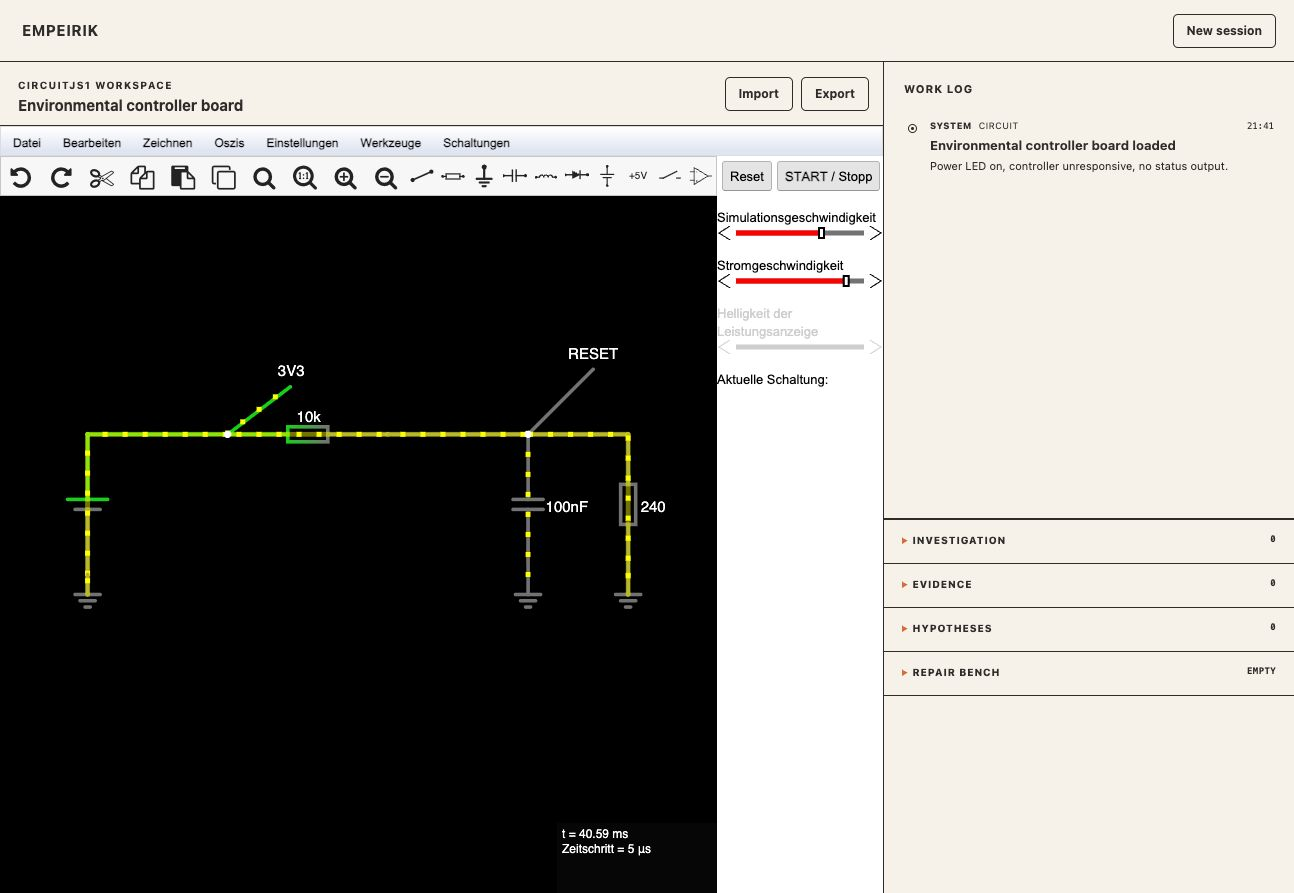
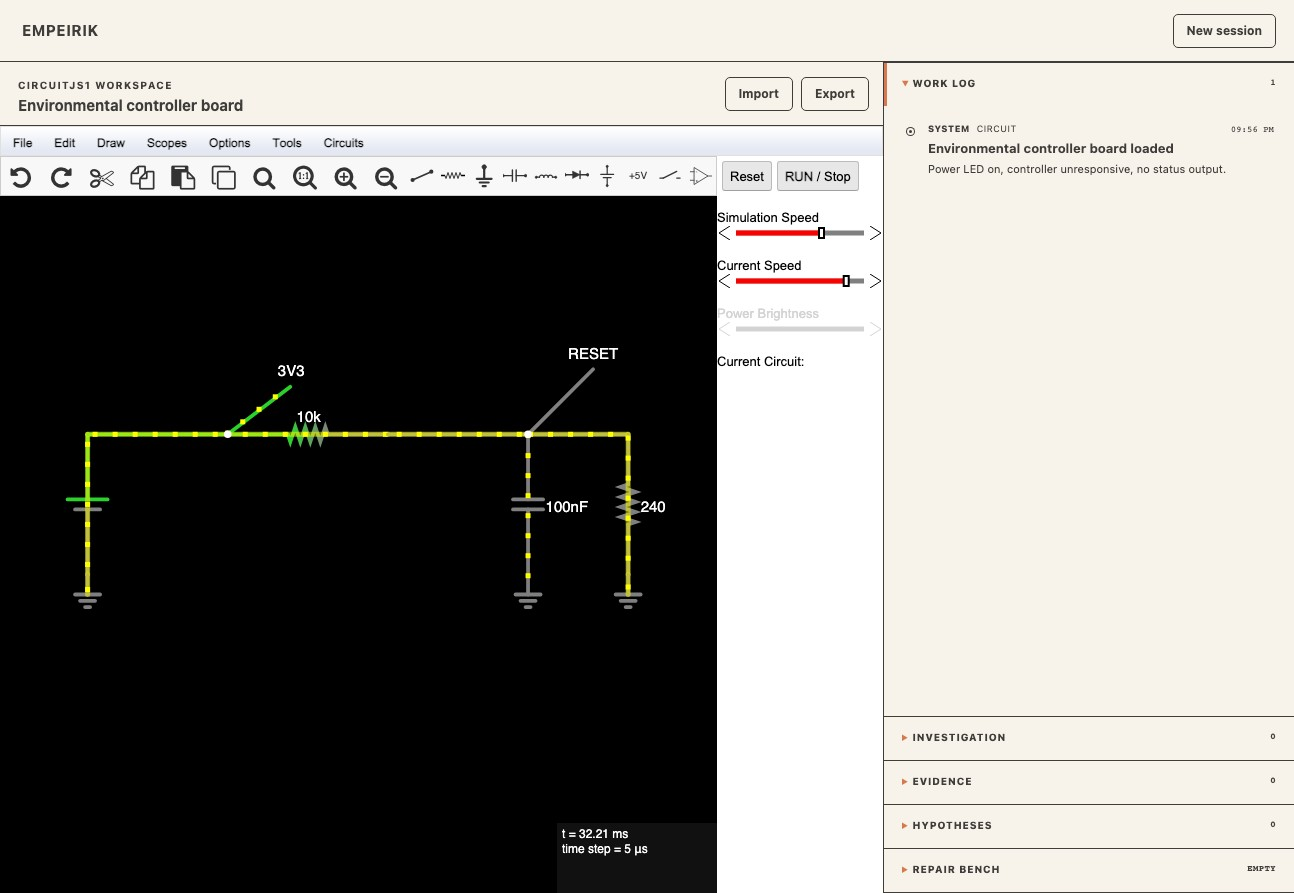
refactor: make work log part of accordion

diff --git a/src/styles.css b/src/styles.css
@@ -311,11 +311,10 @@ button:focus-visible {
 .session-body {
   min-height: 0;
   display: grid;
-  grid-template-rows: auto minmax(190px, 1.1fr) minmax(210px, 0.9fr);
+  grid-template-rows: auto minmax(0, 1fr);
   grid-template-areas:
     "pending"
-    "activity"
-    "benches";
+    "panels";
   overflow: hidden;
 }
 
@@ -323,16 +322,7 @@ button:focus-visible {
   grid-area: pending;
 }
 
-.activity-section {
-  grid-area: activity;
-}
-
-.bench-section {
-  grid-area: benches;
-}
-
-.pending-section,
-.activity-section {
+.pending-section {
   padding: 20px;
   border-bottom: 1px solid var(--border);
 }
@@ -394,17 +384,12 @@ button:focus-visible {
   gap: 8px;
 }
 
-.activity-section {
+.panel-stack {
+  grid-area: panels;
   min-height: 0;
-  display: grid;
-  grid-template-rows: auto minmax(0, 1fr);
-  padding: 20px 12px 0 20px;
+  display: flex;
+  flex-direction: column;
   overflow: hidden;
-}
-
-.bench-section {
-  min-height: 0;
-  overflow-y: auto;
   overscroll-behavior: contain;
   border-top: 1px solid var(--charcoal);
   background: var(--cream);
@@ -412,7 +397,16 @@ button:focus-visible {
 }
 
 .bench {
+  flex: 0 0 auto;
+  min-height: 0;
   border-bottom: 1px solid var(--charcoal);
+}
+
+.bench[open] {
+  flex: 1 1 auto;
+  display: grid;
+  grid-template-rows: auto minmax(0, 1fr);
+  overflow: hidden;
 }
 
 .bench summary {
@@ -444,7 +438,7 @@ button:focus-visible {
 }
 
 .bench-content {
-  max-height: 200px;
+  min-height: 0;
   padding: 0 18px 12px 35px;
   overflow-y: auto;
   scrollbar-color: var(--charcoal) transparent;
@@ -501,8 +495,8 @@ button:focus-visible {
 
 .session-feed {
   min-height: 0;
-  margin-top: 8px;
-  padding: 14px 8px 18px 0;
+  margin: 0;
+  padding: 14px 20px 18px 18px;
   overflow-y: auto;
   overscroll-behavior: contain;
   scrollbar-color: var(--border-strong) transparent;

diff --git a/index.html b/index.html
@@ -98,14 +98,15 @@ npm start</code></pre>
           <div id="pending-actions"></div>
         </section>
 
-        <section class="activity-section" aria-labelledby="activity-title">
-          <div class="section-label-row">
-            <h3 id="activity-title">Work log</h3>
-          </div>
-          <div id="session-feed" class="session-feed"></div>
-        </section>
+        <section class="panel-stack" aria-label="Session workspace">
+          <details class="bench activity-section" name="session-bench" data-bench="work-log" open>
+            <summary>
+              <span>Work log</span>
+              <span id="work-log-count" class="bench-count">0</span>
+            </summary>
+            <div id="session-feed" class="session-feed bench-content"></div>
+          </details>
 
-        <section class="bench-section" aria-label="Investigation workspace">
           <details class="bench" name="session-bench" data-bench="investigation">
             <summary>
               <span>Investigation</span>

diff --git a/src/ui.js b/src/ui.js
@@ -453,6 +453,7 @@
       events.sort(function (a, b) {
         return new Date(a.at).getTime() - new Date(b.at).getTime();
       });
+      el("work-log-count").textContent = String(events.length);
       feed.innerHTML = events.map(function (event) {
         var actor = event.actor === "human"
           ? "You"

diff --git a/design-qa.md b/design-qa.md
@@ -23,9 +23,9 @@ No actionable P0, P1, or P2 findings remain.
 - Fonts and typography: the existing Inter/system stack, weights, sizes, and button
   typography were preserved. New bench and picker copy follows the existing compact
   UI hierarchy without clipping or unintended wrapping at the tested viewport.
-- Spacing and layout: CircuitJS1 remains the dominant surface. The fixed Work log and
-  reserved accordion area do not move when a bench opens. One bench opens at a time,
-  keeping the lower rail readable.
+- Spacing and layout: CircuitJS1 remains the dominant surface. Work log and the four
+  focused views share one accordion, with Work log open by default. One view opens at
+  a time and fills the available rail without moving the simulator.
 - Colors and tokens: the outer workspace contains exactly the sampled cream `#f7f3eb`,
   charcoal `#3f3d3a`, and orange `#d8794d`. Charcoal-on-cream text contrast is 9.78:1;
   orange is reserved for focus and structural accents. CircuitJS1 retains its native
@@ -36,7 +36,7 @@ No actionable P0, P1, or P2 findings remain.
   uses it as color direction, not as a visible lockup.
 - Copy and content: empty states explain what each bench will contain. Export choices
   clearly distinguish re-importable circuit data from visual artifacts.
-- Interactions and accessibility: all four summaries are native keyboard-accessible
+- Interactions and accessibility: all five summaries are native keyboard-accessible
   disclosure controls; opening one closes the others. The export card exposes a named
   dialog, moves focus into its first choice, closes on outside interaction or Escape,
   and reports success/errors through the existing live status region.
@@ -52,13 +52,12 @@ No actionable P0, P1, or P2 findings remain.
    all small text to charcoal/cream pairs and reserved orange for borders, markers,
    focus, and timeline accents. The post-fix default and export captures show the result.
 2. First interaction pass found a P2 density issue: several open benches could make the
-   lower rail unnecessarily long. The fix made the four benches an exclusive accordion.
-   The populated-bench capture confirms the selected content remains visible while the
-   Work log stays fixed.
+   lower rail unnecessarily long. The fix first made the four focused views exclusive,
+   then folded Work log into the same five-view accordion for one consistent interaction.
 
 ## Primary interactions tested
 
-- Opened every diagnostic bench and confirmed exclusive expansion.
+- Opened Work log and every diagnostic view and confirmed exclusive expansion.
 - Populated Investigation and Evidence from live WebMCP inspection and measurement.
 - Completed the full example workflow through verified repair and inspected all four
   populated bench renderers.

diff --git a/README.md b/README.md
@@ -2,9 +2,10 @@
 
 empeirik is a CircuitJS1-first workspace where a WebMCP agent can inspect,
 build, edit, simulate, and diagnose the same circuit the human sees. There is no
-second schematic: CircuitJS1 remains the source of truth. The session panel pairs
-one chronological human/agent work log with expandable Investigation, Evidence,
-Hypotheses, and Repair benches that summarize the same underlying actions.
+second schematic: CircuitJS1 remains the source of truth. The session panel is a
+five-view accordion: the chronological human/agent Work log opens by default,
+alongside Investigation, Evidence, Hypotheses, and Repair views that summarize
+the same underlying actions.
 There is no Build/Diagnose mode: the user's request determines what the agent
 does in the shared circuit workspace.
 
